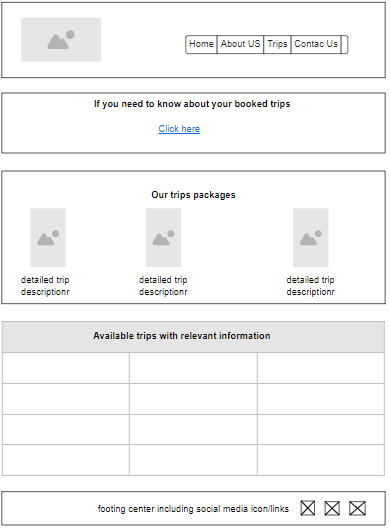
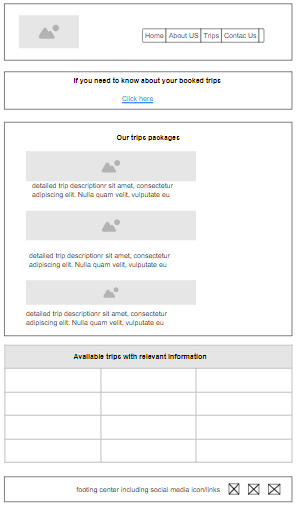
updated tripswrimg

diff --git a/wwr/trips.html b/wwr/trips.html
@@ -23,7 +23,44 @@
   </header>
 <div class="grid">
   <main>
-    
+   <h2>If you need to know about your booked trips</h2> 
+   <a href="contact.html">Click here</a>
+   <section>
+    <h2>Trips Packages Awaits You!</h2> 
+    <aside class="box">
+      <h2>Geloriver</h2>
+      <img src="images/Gelorivertrip.jpg" alt="Geloriver">
+      <p>Lorem ipsum dolor sit amet consectetur adipisicing elit. Totam rem id quidem ipsum error enim dignissimos quasi adipisci eius voluptates dolores officiis debitis, laboriosam est sit molestiae quis rerum illo?</p>
+      <h2>Geloriver</h2>
+      <img src="images/Gelorivertrip.jpg" alt="Geloriver">
+      <p>Lorem ipsum dolor sit amet consectetur adipisicing elit. Totam rem id quidem ipsum error enim dignissimos quasi adipisci eius voluptates dolores officiis debitis, laboriosam est sit molestiae quis rerum illo?</p> 
+      <h2>Geloriver</h2>
+      <img src="images/Gelorivertrip.jpg" alt="Geloriver">
+      <p>Lorem ipsum dolor sit amet consectetur adipisicing elit. Totam rem id quidem ipsum error enim dignissimos quasi adipisci eius voluptates dolores officiis debitis, laboriosam est sit molestiae quis rerum illo?</p> 
+    </aside>
+    </section>
+    <table>
+      <h3>Shoping your trip adventure</h3>
+      <tr>
+        <th>Trip</th>
+        <th>Duration</th>
+        <th>Per person</th>
+        <th>Kids 8-17</th>
+      </tr>
+      <tr>
+        <td>Alfreds Futterkiste</td>
+        <td>Maria Anders</td>
+        <td>Germany</td>
+        <td>Germany</td>
+      </tr>
+      <tr>
+        <td>Centro comercial Moctezuma</td>
+        <td>Francisco Chang</td>
+        <td>Mexico</td>
+        <td>Mexico</td>
+      </tr>
+    </table>    
+
   </main>
 </div>
   <footer>

diff --git a/wwr/styles/rafting.css b/wwr/styles/rafting.css
@@ -130,6 +130,42 @@ input {
     height: auto;
   }
 
+  aside {
+    display: flexbox;
+    width: 30rem;   
+    
+    
+    
+  
+  }
+  
+  aside img {
+    width: 600px;;
+    height:auto ;
+    
+    
+  }
+      
+  
+
+  .box {
+    margin: 1rem;
+    border: 1px solid rgba(0,0,0,.1);
+    padding: 1rem;
+    background-color: #ddd;
+    color: #000;
+    width: fit-content;
+    
+
+  }
+  
+ 
+    
+
+  .indent {
+    padding-left: 2rem;
+  }
+
   textarea {
     display: block ;    
     font-size: 100%;
